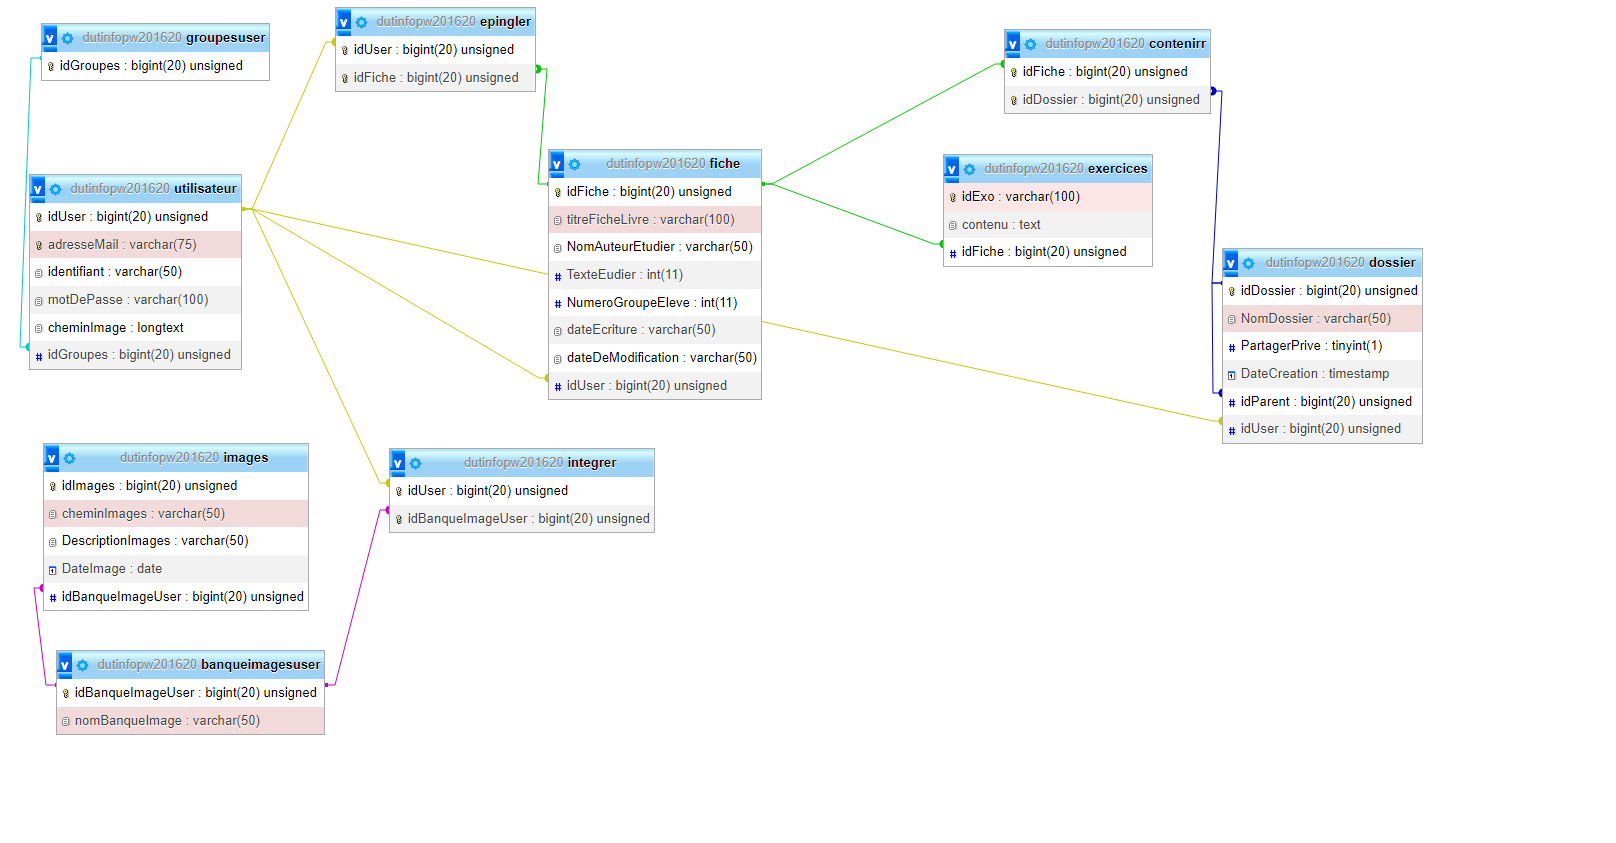
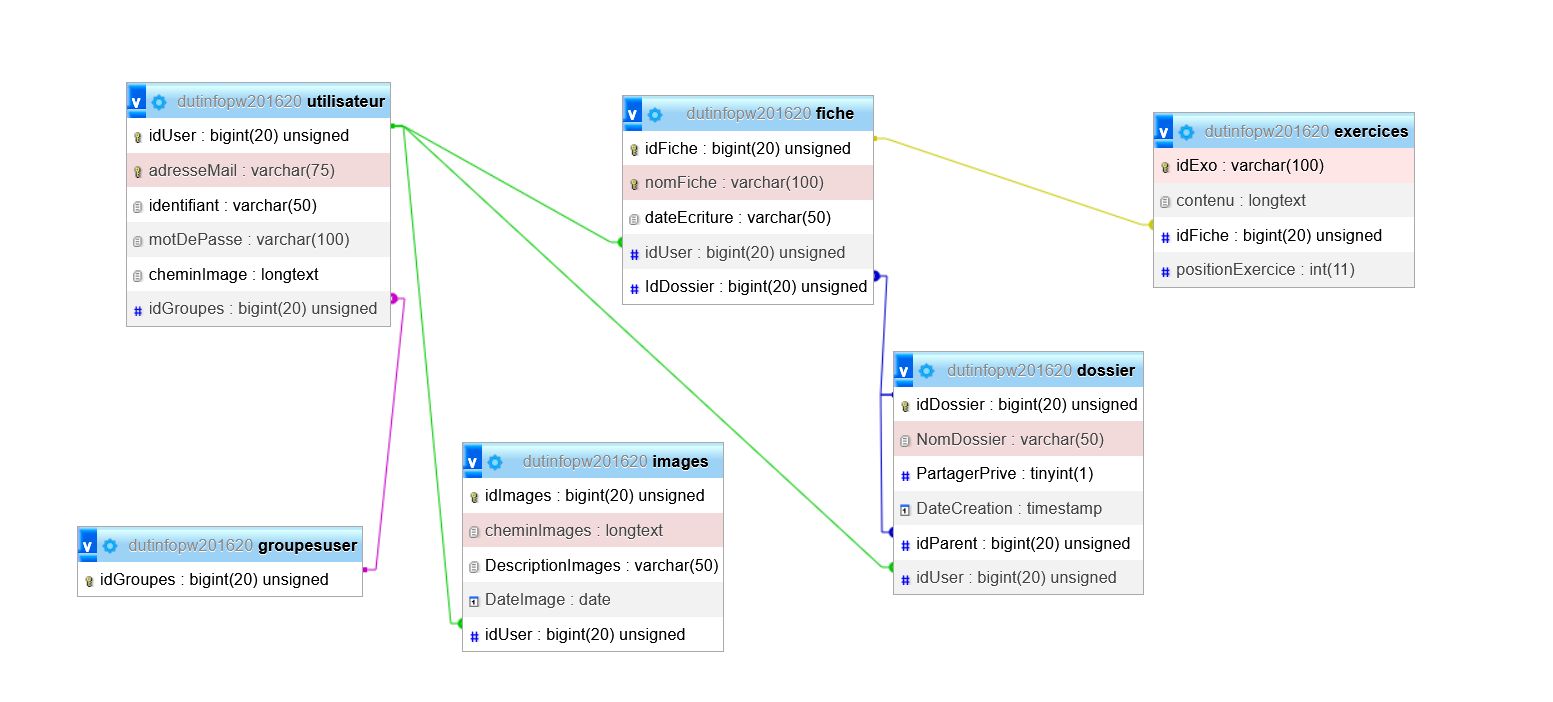
dernier patch du css avec le bonne couleur  + ajout de la photo de la bdd

diff --git a/src/Script_js/pageExo.js b/src/Script_js/pageExo.js
@@ -76,18 +76,13 @@ function definitionDraggable() {
         class = "inputVraiF all input-utilisateur" / > < button class = "supprimer"
         onClick = "supprimerExo(this)" > ❌ < /button> <p class="pVraiFaux">---------------Vrai----Faux</p > < /div>`;
       } else if (classes.includes("exoVraiouFaux")) {
-        htmlNouvelExercice = `<div class ="divVraiOuFaux classeDeBase" id="idGuid"><input type="text" name="VouF" maxlength="50"  class="inputVraiF all input-utilisateur" /><button class = "supprimer" onClick="supprimerExo(this)">❌</button><p class="pVraiFaux">----------------------Vrai----faux</p> </div>`;
+        htmlNouvelExercice = `<div class ="divVraiOuFaux classeDeBase" id="idGuid"><input type="text" name="VouF" maxlength="70" value="•"  class="inputVraiF all input-utilisateur vraiOuFaux" /><button class = "supprimer" onClick="supprimerExo(this)">❌</button><p class="pVraiFaux">----------------------Vrai----faux</p> </div>`;
       } else if (classes.includes("consigne")) {
         htmlNouvelExercice = `<div class ="divVraiOuFaux classeDeBase" id="idGuid"><input type="text" name="VouF" class="rond all input-utilisateur" maxlength="1"/><input type="text" name="VouF" maxlength = "60" class="consigne2 all input-utilisateur" /> <button class = "supprimer" onClick="supprimerExo(this)">❌</button> </div>`;
       } else if (classes.includes("repondParPhrase")) {
         htmlNouvelExercice = `<div class ="divVraiOuFaux classeDeBase" id="idGuid"><input type="text" name="VouF" maxlength="50" class="inputCanva inputVraiF all input-utilisateur" /><button class = "supprimer" onClick="supprimerExo(this)">❌</button> <canvas class="monCanvas" width="740" height="61"></canvas></div>`;
       } else if (classes.includes("Entete")) {
-        htmlNouvelExercice = `<div class =" classeDeBase " id="idGuid"><button class = "enteteBouton supprimer" onClick="supprimerExo(this)">❌</button><div class = "boiteEntete"><p class = "prenom">Prénom__________</p><p class = "date">Date:____/______/_____</p> </div><div class="Entete"><div class = "left"><input type="text"  class="top input-utilisateur" value = "Titre" maxlength="22"/><input type="text"  class="bot input-utilisateur"  value = "Auteur" maxlength = "15"/> </div>   <div class = "right"><div class = "lectureLeft"><input type="text"  value = "Lecture" maxlength="22"class="lecture input-utilisateur alignCenter" /><input type="text" maxlength="22" value = "Texte " class="lecture2 input-utilisateur alignCenter" /></div> <div class = " lectureRight"> <input type="text"  value = "Groupe" class="groupe input-utilisateur alignCenter " maxlength="8" cols="40" rows="5"/> </div></div> </div></div>`;
-      } else if (classes.includes("imagesDraggable")) {
-        htmlNouvelExercice =
-          `<div class ="divVraiOuFaux classeDeBase" id="idGuid"><img id="Image" class="imagePage " alt="photo de profile" src=` +
-          ui.draggable[0].src +
-          ` alt="" /><button class = "supprimer" onClick="supprimerExo(this)">❌</button></div>`;
+        htmlNouvelExercice = `<div class =" classeDeBase " id="idGuid"><button class = "enteteBouton supprimer" onClick="supprimerExo(this)">❌</button><div class = "boiteEntete"><p class = "prenom">Prénom__________</p><p class = "date">Date:____/______/_____</p> </div><div class="Entete"><div class = "left"><input type="text"  class="top input-utilisateur" value = "Titre" maxlength="28"/><input type="text"  class="bot input-utilisateur"  value = "Auteur" maxlength = "20"/> </div>   <div class = "right"><div class = "lectureLeft"><input type="text"  value = "Lecture" maxlength="22"class="lecture input-utilisateur alignCenter" /><input type="text" maxlength="22" value = "Texte " class="lecture2 input-utilisateur alignCenter" /></div> <div class = " lectureRight"> <input type="text"  value = "Groupe" class="groupe input-utilisateur alignCenter " maxlength="8" cols="40" rows="5"/> </div></div> </div></div>`;
       } else if (classes.includes("imagesDraggable")) {
         htmlNouvelExercice =
           `<div class ="divVraiOuFaux classeDeBase" id="idGuid"><img id="Image" class="imagePage " alt="photo de profile" src=` +

diff --git a/src/Style_css/impression.css b/src/Style_css/impression.css
@@ -47,7 +47,13 @@
     }
 
     .inputCanva {
-        margin-left: 30%;
+        margin-left: 25%;
+        width: 70%;
+    }
+
+    .vraiOuFaux {
+        width: 70%;
+
     }
 
     body {
@@ -93,8 +99,27 @@
         font-size: 24px;
     }
 
-    .coloriagePhrase {
-        border: 1px solid grey;
+    .coloriagePhrase  {
+        border: 2px solid #adacb1;
+    }
+
+    .lecture,.lecture2 {
+        background-color: #524e4b;
+        color: white;
+        border-style: solid !important;
+        border-color: #524e4b !important;
+        border-width: 10px !important;
+    }
+
+    .premiereLigne{
+        margin-left: 10%;
+    }
+
+    .phraseDroitecss1{
+        margin-bottom: 3%;
+    }
+    .phraseGauchecss{
+        margin-top: 14%;
     }
 }
 /*

diff --git a/src/Style_css/pageExo.css b/src/Style_css/pageExo.css
@@ -254,7 +254,7 @@ page {
 
 page[size="A4"] {
     min-width: 21cm;
-    min-height: 41.7cm;
+    min-height: 38.7cm;
     max-width: 21cm;
     max-height: 29.7cm;
 }

diff --git a/src/Style_css/styleExo.css b/src/Style_css/styleExo.css
@@ -143,7 +143,7 @@ input.groupe.input-utilisateur {
 }
 
 .premierMot {
-    background-color: #979797;
+    background-color: #b2b2b2;
 }
 
 .premiereLigne {
